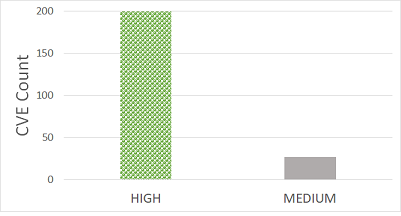
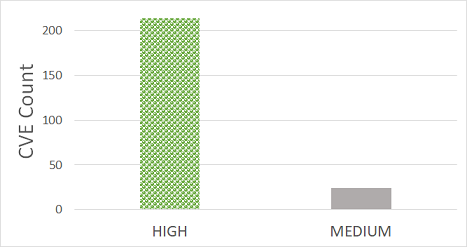
first commit

diff --git a/README.md b/README.md
@@ -4,10 +4,11 @@ There is an increasing trend in the yearly volume of published software vulnerab
 This repository provides a case study to analyze CVEs included in CISA's [Known Exploted Vulnerabilities Catalog](https://www.cisa.gov/known-exploited-vulnerabilities-catalog).
 A binary Convolutional Neural Network is trained on the descriptions of the CVEs published between 1999 and 2019 at [US National Vulnerability Database](https://nvd.nist.gov/) to assess the severity of disclosed software vulnerabilities. The model labels the severity of each CVE either MEDIUM or HIGH depending on its severity and exploitability.
 ## Case Study Result
-- There are 239 total exploited 2020, 2021, and 2022 CVEs published by CISA [here](https://www.cisa.gov/known-exploited-vulnerabilities-catalog), 
-- Our model labeled 200 of these 239 CVEs with a HIGH severity.
-- Overall model accuracy is 83.7%.
+- There are 238 total exploited 2020, 2021, and 2022 CVEs published by CISA [here](https://www.cisa.gov/known-exploited-vulnerabilities-catalog), CVE-2022-22587 was ecluded because it was RESERVED and did not had a valid description.
+- Our model labeled 214 of these 238 CVEs with a HIGH severity.
+- Overall model accuracy is 89.9%.
 - ![alt text](https://github.com/SoftwareDesignLab/automated_cve_severity_analysis/blob/main/chart.png)
+- For the same set of CVEs, we checked [NVD data](https://nvd.nist.gov/vuln/data-feeds) and found that NVD labeled 215 of these CVEs as either HIGH or CRITICAL severity (Accuracy 90%). 
 
 ## Data description
 ### severity model data
